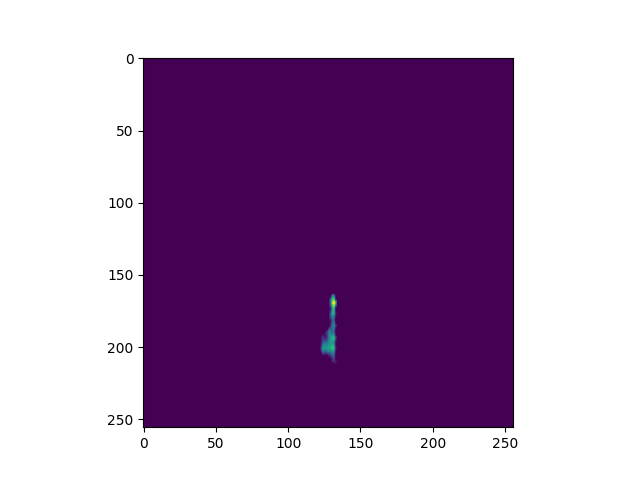
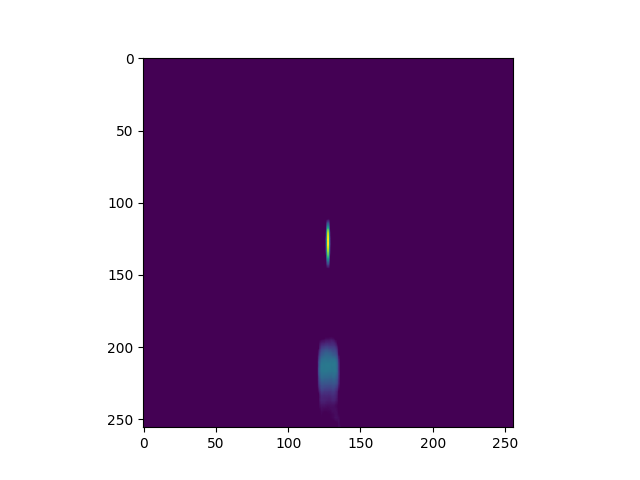
fix main 2 + new results

Changed region(s): [[0.5, 0.5938, 0.5312, 0.8438], [0.5, 0.4688, 0.5312, 0.5625]]

diff --git a/main.py b/main.py
@@ -59,16 +59,14 @@ cons = {'type': 'ineq',
 
 best_x = []
 score_array = []
-np.array(best_x)
-np.array(score_array)
 best_score = 100000
 
 
 def safe_score(score, x):
     global best_score
-    np.append(score_array, score)
+    score_array.append(score)
     if score < best_score:
-        np.append(best_x, x)
+        best_x.append(x)
         best_score = score
 
 
@@ -109,11 +107,11 @@ def evaluate(input):
     size0 = 0
     size2 = array_list[2].size
     for x in array_list[0]:
-        a = a + x * size0 ** 0.75 / array_list[0].size ** 0.75
+        a = a + x * size0 ** 0.5 / array_list[0].size ** 0.5
         size0 += 1
 
     for x in array_list[2]:
-        b = b + x * size2 ** 0.75 / array_list[2].size ** 0.75
+        b = b + x * size2 ** 0.5 / array_list[2].size ** 0.5
         size2 -= 1
 
     c = np.abs(128 - position) / 128 * 200
@@ -144,8 +142,8 @@ FullModel = tf.keras.Sequential([fullyconnected, autoencoder.decoder])
 def optimizer(x):
     # encode image
     x[5] = number / 10_000
-    print(np.shape(x))
-    print(x)
+    #print(np.shape(x))
+    #print(x)
     picture = FullModel.predict(np.array(x).reshape(1, 7))[0]
 
     # evaluate image
@@ -166,32 +164,32 @@ x10000 = np.array([1.38591463e+02, 1.91580887e+00, 5.49097803e+02, 5.70393449e+0
 
 # call optimizer for all cases, and safe most optimal picture
 number = 3000
-res1 = basinhopping(optimizer, x3000, niter=100, minimizer_kwargs={'constraints': cons}, T=1.2)
+res1 = basinhopping(optimizer, x3000, niter=100, minimizer_kwargs={'constraints': cons, 'method': "SLSQP"}, T=1.2)
 visualise(np.array(res1.x))
 
 
-np.save(path + '3000_scoring.npy', score_array)
-np.save(path + '3000_best_x.npy', best_x)
+np.save(path + '3000_scoring.npy', np.array(score_array))
+np.save(path + '3000_best_x.npy', np.array(best_x))
 best_x = []
 score_array = []
 best_score = 100000
 
 number = 5000
-res2 = basinhopping(optimizer, x5000, niter=100, minimizer_kwargs={'constraints': cons}, T=1.2)
+res2 = basinhopping(optimizer, x5000, niter=100, minimizer_kwargs={'constraints': cons, 'method': "SLSQP"}, T=1.2)
 visualise(np.array(res2.x))
 
 
-np.save(path + '3000_scoring.npy', score_array)
-np.save(path + '3000_best_x.npy', best_x)
+np.save(path + '5000_scoring.npy', np.array(score_array))
+np.save(path + '5000_best_x.npy', np.array(best_x))
 best_x = []
 score_array = []
 best_score = 100000
 
 number = 10000
-res3 = basinhopping(optimizer, x10000, niter=100, minimizer_kwargs={'constraints': cons}, T=1.2)
+res3 = basinhopping(optimizer, x10000, niter=100, minimizer_kwargs={'constraints': cons, 'method': "SLSQP"}, T=1.2)
 visualise(np.array(res3.x))
-np.save(path + '3000_scoring.npy', score_array)
-np.save(path + '3000_best_x.npy', best_x)
+np.save(path + '10000_scoring.npy', np.array(score_array))
+np.save(path + '10000_best_x.npy', np.array(best_x))
 
 print(res1)
 print(res2)
